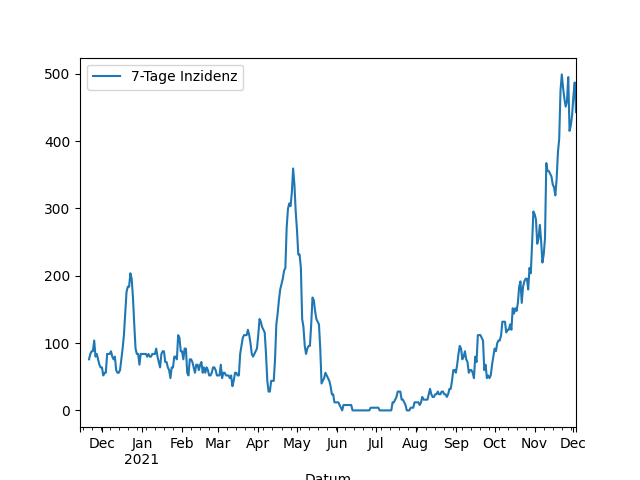
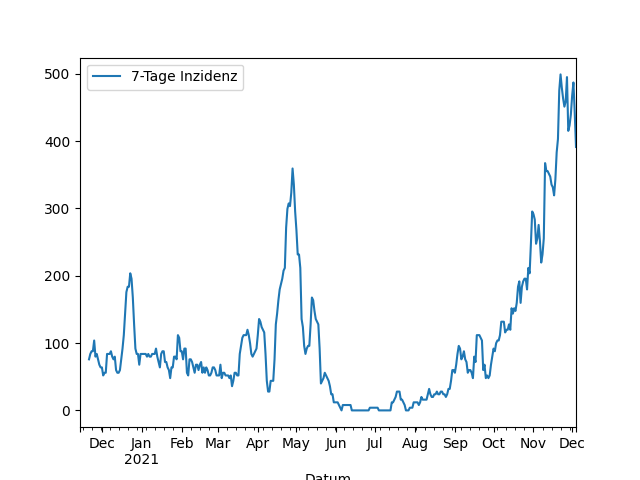
Update images

diff --git a/_includes/aktuelle_inzidenz.md b/_includes/aktuelle_inzidenz.md
@@ -1,1 +1,1 @@
-443,1
+391,2
